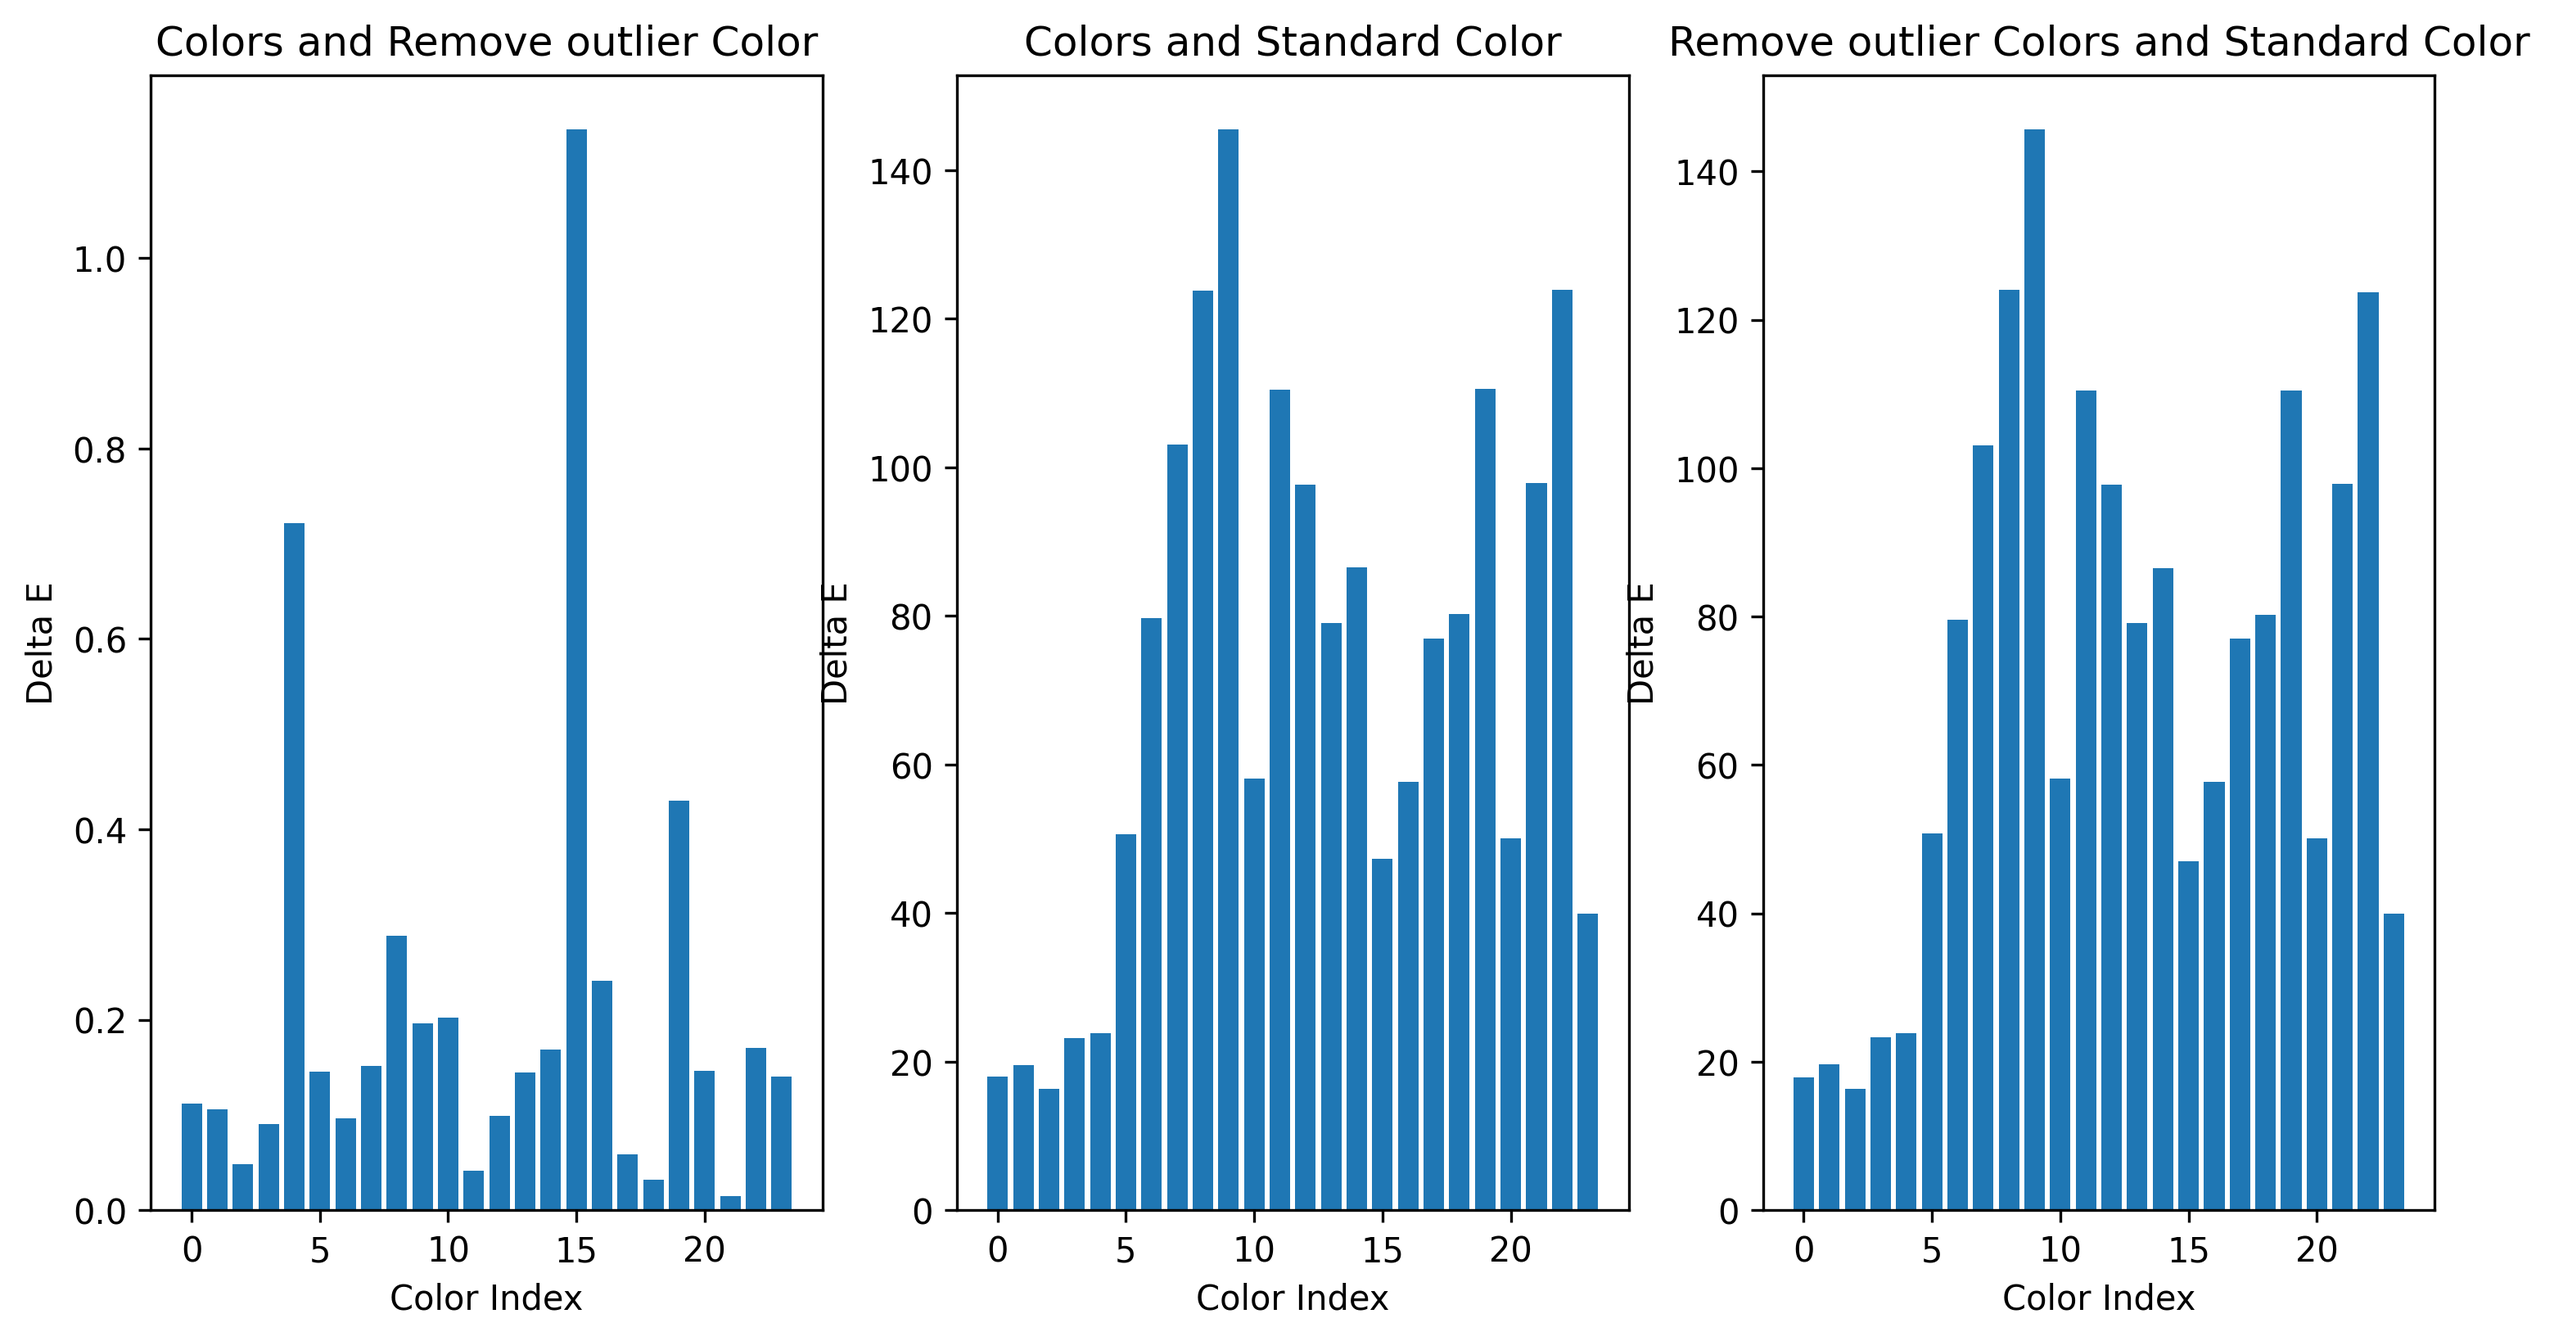
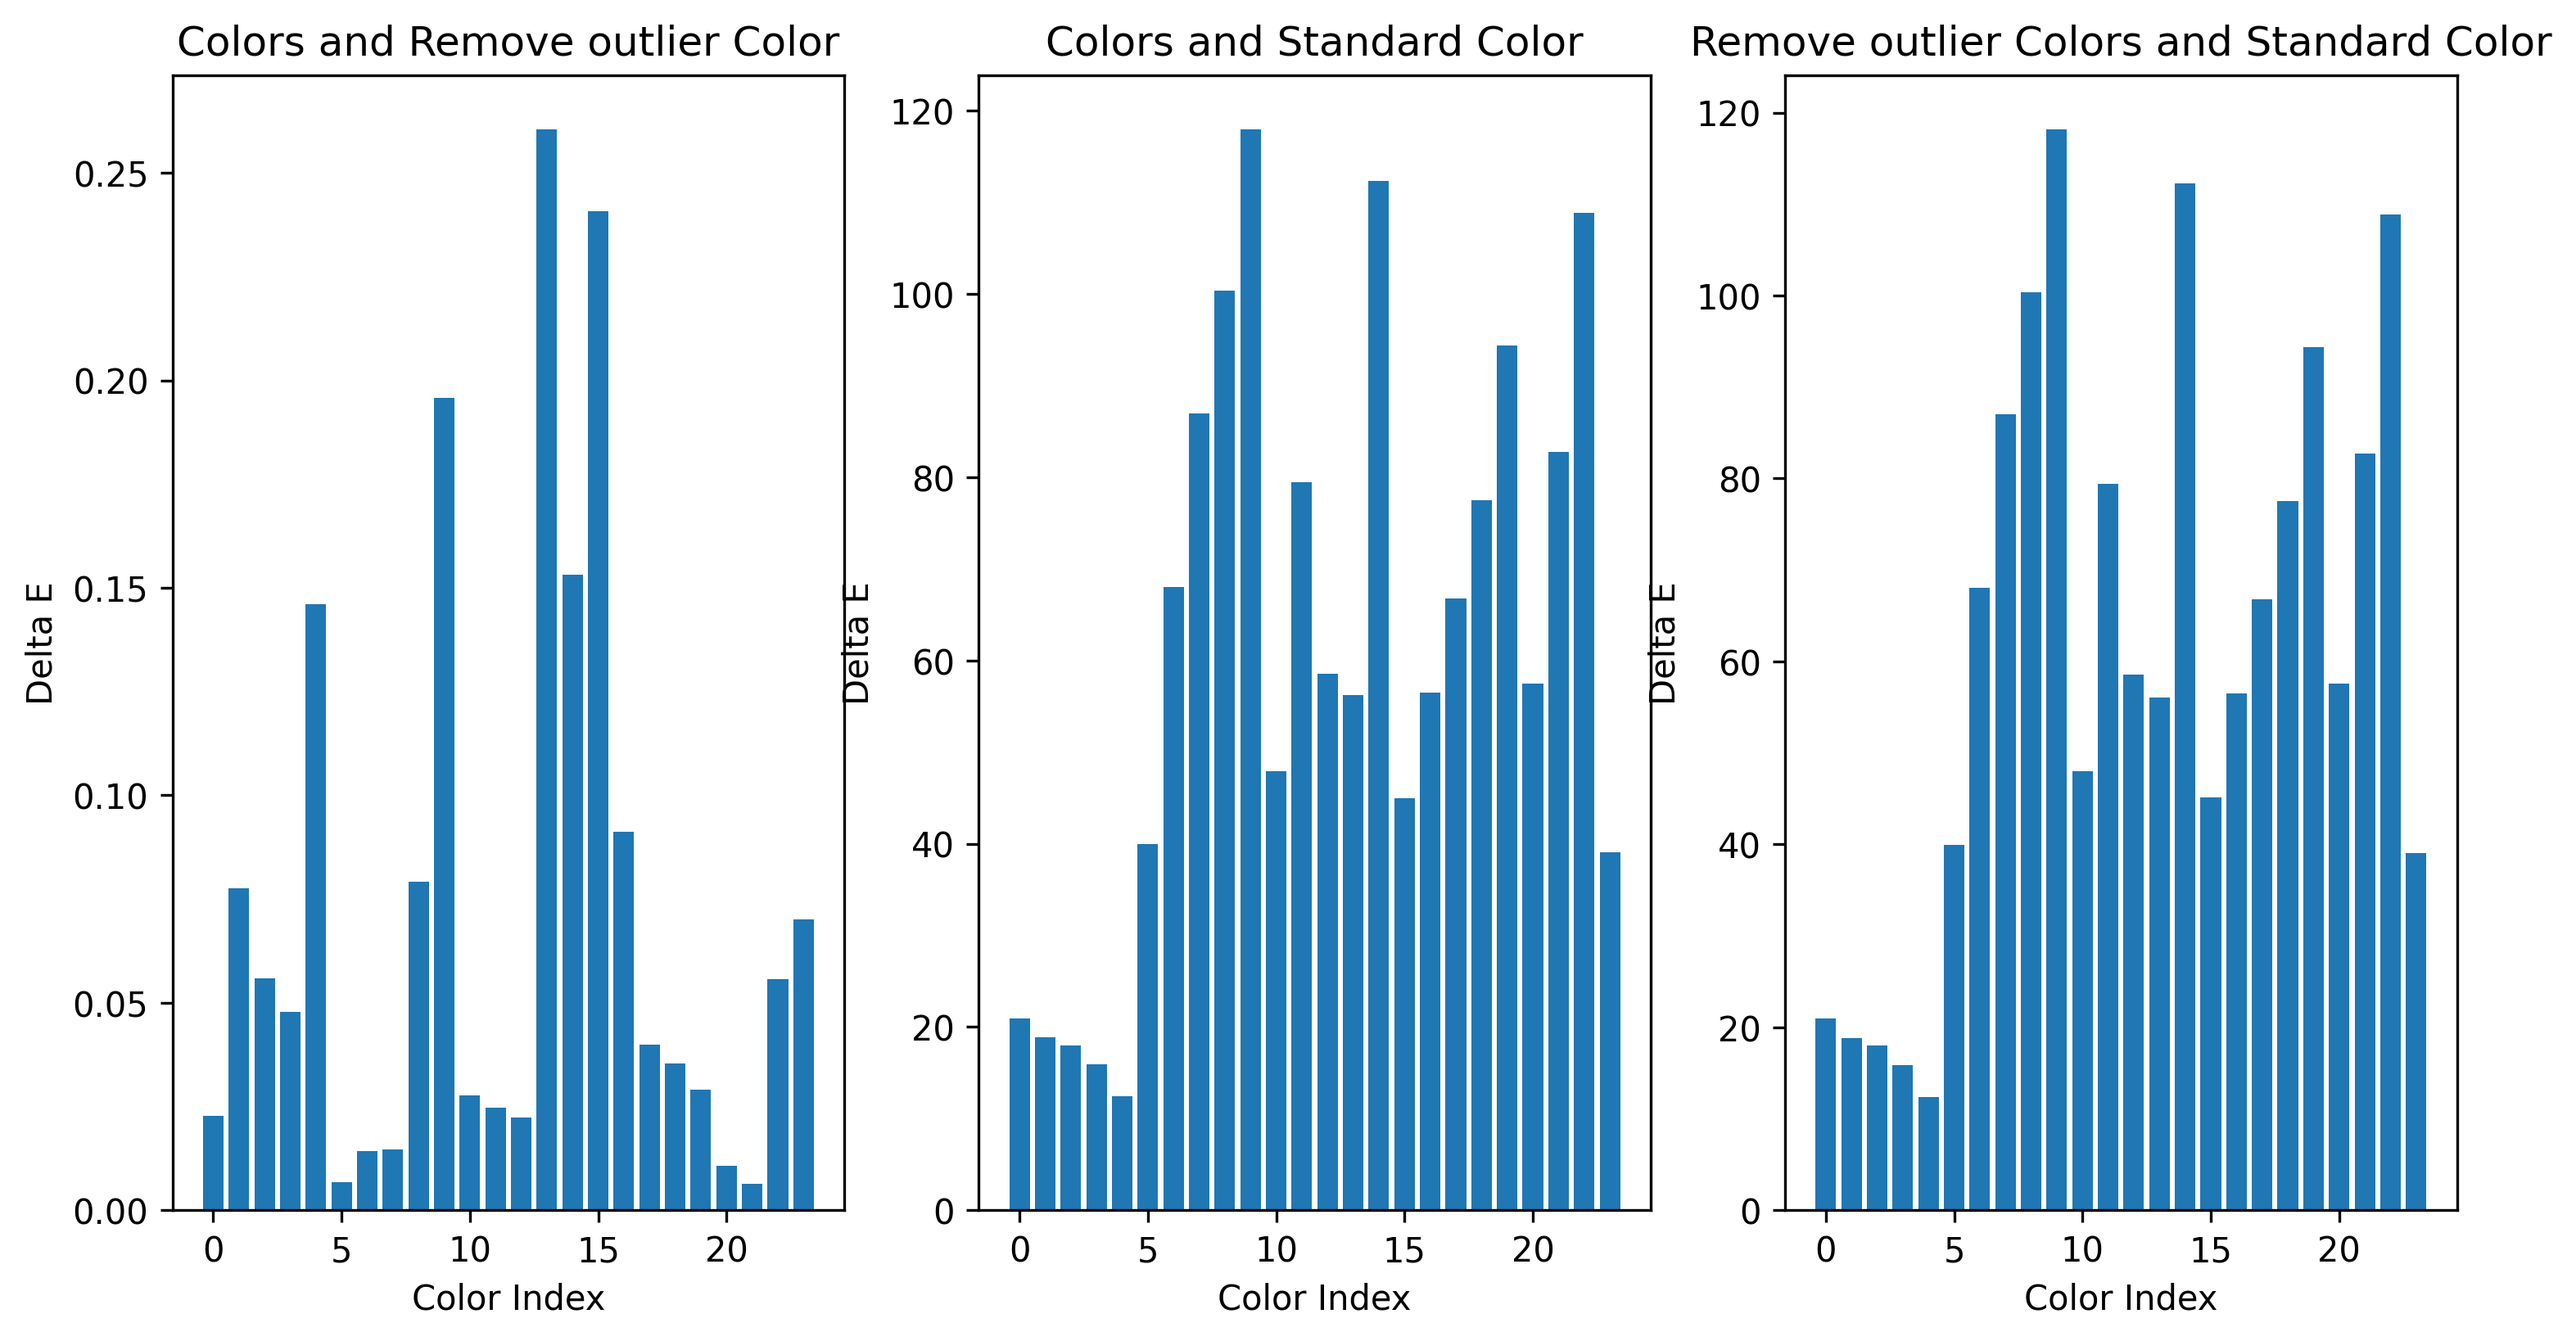
Feat: image analysis used in demo.

diff --git a/main.py b/main.py
@@ -2,6 +2,7 @@ import sys
 from PyQt5.QtWidgets import QWidget, QVBoxLayout, QPushButton, QApplication, QMainWindow, QFileDialog, QMessageBox, QLabel, QHBoxLayout, QTabWidget
 from CC_ui import Ui_MainWindow
 from PyQt5.QtGui import QImage, QPixmap, QMovie
+from PyQt5.QtCore import QTimer, QThread, pyqtSignal, Qt
 import PyQt5.QtCore as QtCore
 import cv2
 import numpy as np
@@ -15,6 +16,8 @@ class StartPage(QWidget, QtCore.QObject):
 
     def __init__(self):
         super().__init__()
+        #demo
+        self.times = 0
 
         # 設置物件
         # 主圖片
@@ -88,14 +91,14 @@ class StartPage(QWidget, QtCore.QObject):
         # tab2.setLayout(layout_tab2)
         # tab_widget.addTab(tab2, "Tab 2")
 
-        # # 第三頁
-        # tab3 = QWidget()
-        # layout_tab3 = QHBoxLayout()
-        # self.tab_image3 = QLabel(tab3)
-        # self.tab_image3.setPixmap(QPixmap('res/Figure_3.png'))
-        # layout_tab3.addWidget(self.tab_image3)
-        # tab3.setLayout(layout_tab3)
-        # tab_widget.addTab(tab3, "Tab 3")
+        # 第三頁
+        tab3 = QWidget()
+        layout_tab3 = QHBoxLayout()
+        self.tab_image3 = QLabel(tab3)
+        self.tab_image3.setPixmap(QPixmap('res/Figure_3.png'))
+        layout_tab3.addWidget(self.tab_image3)
+        tab3.setLayout(layout_tab3)
+        tab_widget.addTab(tab3, "人工抓取分析結果1.Delta E")
 
         # 第四頁
         tab4 = QWidget()
@@ -104,7 +107,7 @@ class StartPage(QWidget, QtCore.QObject):
         self.tab_image4.setPixmap(QPixmap('res/colorblock.png').scaled(864, 576))
         layout_tab4.addWidget(self.tab_image4)
         tab4.setLayout(layout_tab4)
-        tab_widget.addTab(tab4, "人工抓取分析結果1.色塊")
+        tab_widget.addTab(tab4, "人工抓取分析結果2.色塊")
 
         # 第五頁
         tab5 = QWidget()
@@ -113,7 +116,7 @@ class StartPage(QWidget, QtCore.QObject):
         self.tab_image5.setPixmap(QPixmap('res/k-means.png').scaled(1094, 576))
         layout_tab5.addWidget(self.tab_image5)
         tab4.setLayout(layout_tab5)
-        tab_widget.addTab(tab5, "人工抓取分析結果2.長條圖")
+        tab_widget.addTab(tab5, "人工抓取分析結果3.長條圖")
 
         main_layout = QVBoxLayout()
         main_layout.addLayout(layout)
@@ -266,6 +269,26 @@ class StartPage(QWidget, QtCore.QObject):
         new_pixmap1 = QPixmap.fromImage(qimage1)
         self.tab_image4.setPixmap(new_pixmap.scaled(864, 576))
         self.tab_image5.setPixmap(new_pixmap1.scaled(1094, 576))
+
+        # demo
+        self.times += 1
+        if(self.times == 1):
+            pixmap = QPixmap('res/delta_e_1.png')
+            scaled_pixmap = pixmap.scaled(400, 400, Qt.KeepAspectRatio, Qt.SmoothTransformation)
+            self.image_f.setPixmap(scaled_pixmap)
+            #self.tab_image3.setPixmap(QPixmap('res/Water-Net.png'))
+            pixmap = QPixmap('res/Water-Net.png')
+            scaled_pixmap = pixmap.scaled(1167, 500, Qt.KeepAspectRatio, Qt.SmoothTransformation)
+            self.tab_image3.setPixmap(scaled_pixmap)
+        elif(self.times == 2):
+            #self.image_f.setPixmap(QPixmap('res/delta_e_2.png').scaled(500,500))
+            pixmap = QPixmap('res/delta_e_2.png')
+            scaled_pixmap = pixmap.scaled(400, 400, Qt.KeepAspectRatio, Qt.SmoothTransformation)
+            self.image_f.setPixmap(scaled_pixmap)
+            #self.tab_image3.setPixmap(QPixmap('res/neural-colorization.png'))
+            pixmap = QPixmap('res/neural-colorization.png')
+            scaled_pixmap = pixmap.scaled(1167, 500, Qt.KeepAspectRatio, Qt.SmoothTransformation)
+            self.tab_image3.setPixmap(scaled_pixmap)
 
     def image_show(self):
 
